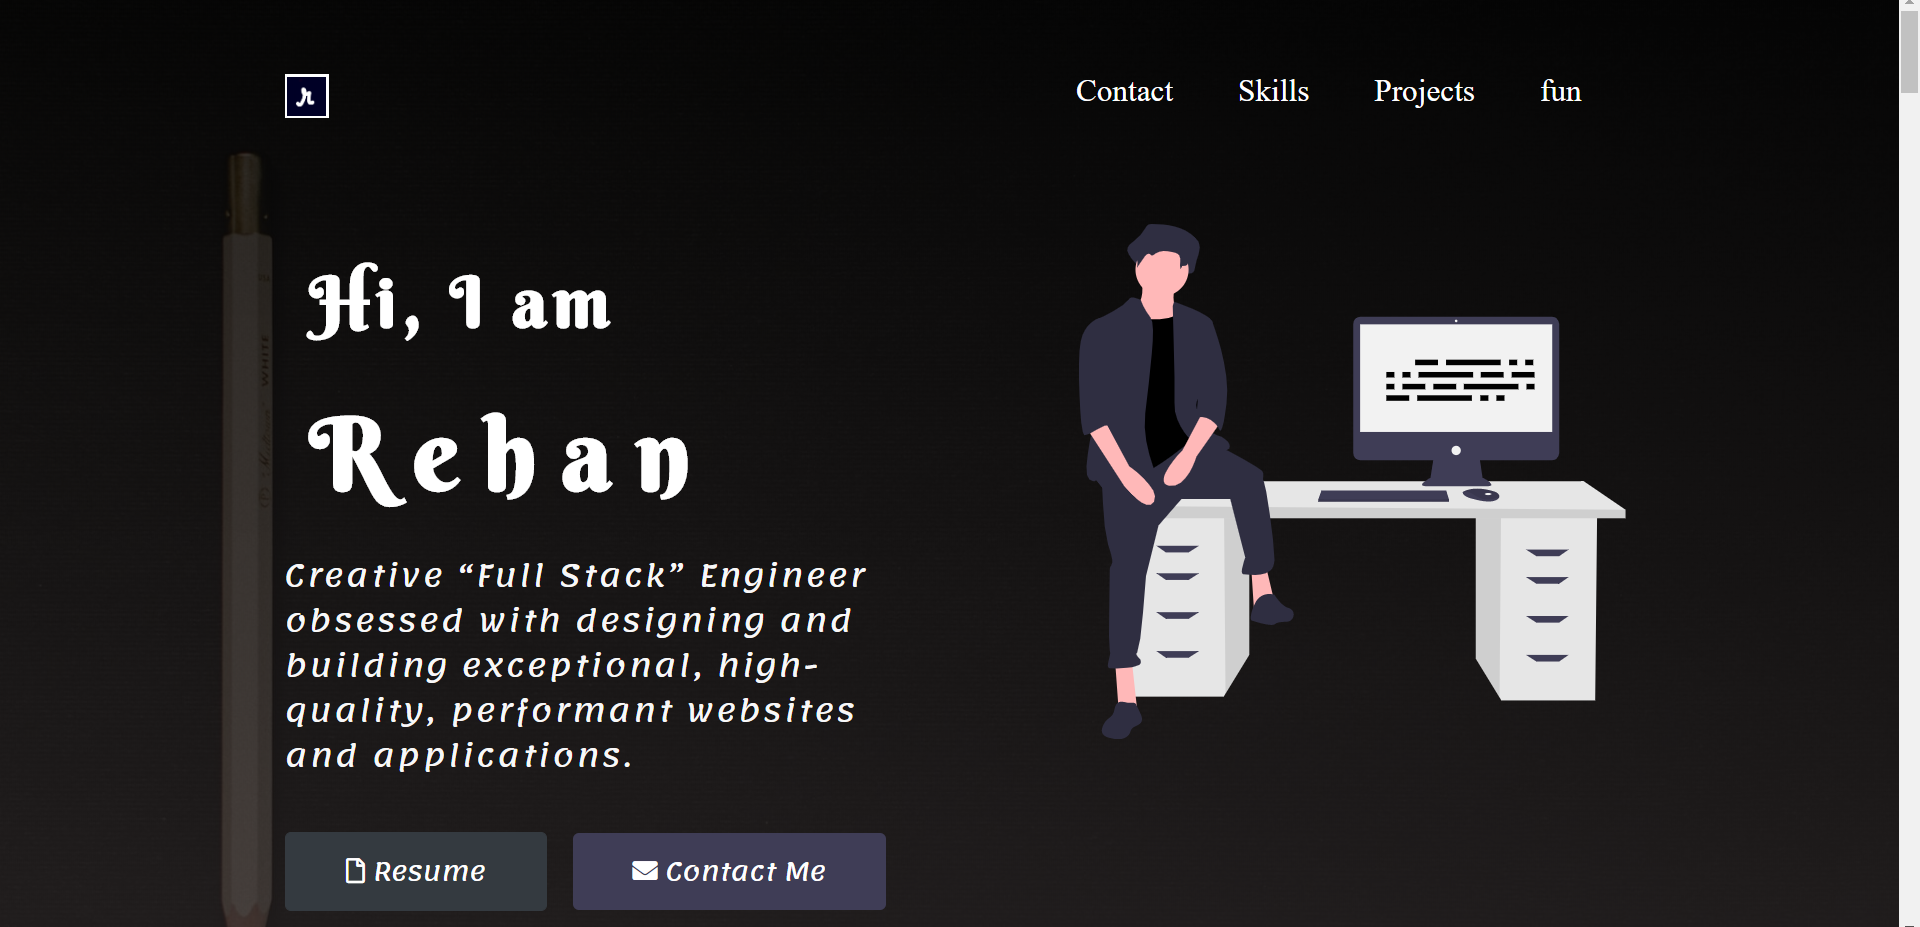
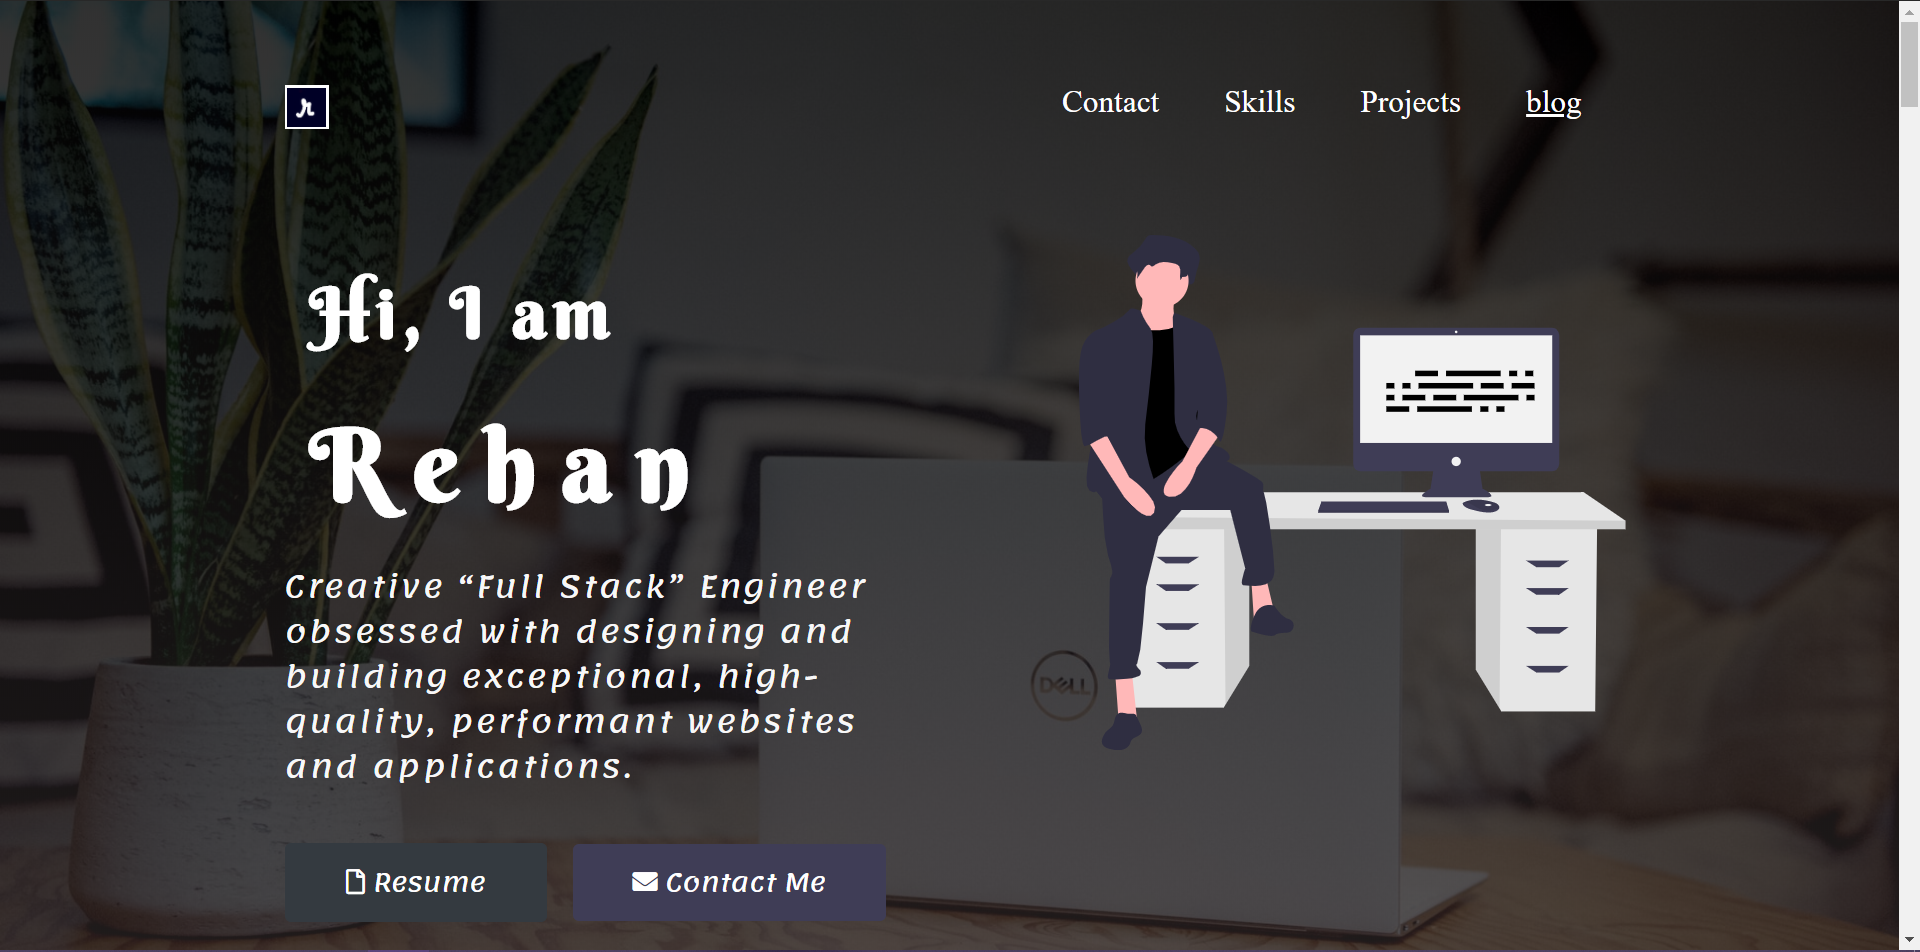
time pass

diff --git a/index.html b/index.html
@@ -59,16 +59,16 @@
           <ul class="navbar-nav ml-auto">
 
             <li class="nav-item">
-              <a class="nav-link" id = "nav-link-id" href="#cta">Contact</a>
+              <a class="nav-link text-big" id = "nav-link-id" href="#cta">Contact</a>
             </li>
             <li class="nav-item">
-              <a class="nav-link" id = "nav-link-id" href="#skills">Skills</a>
+              <a class="nav-link text-big" id = "nav-link-id" href="#skills">Skills</a>
             </li>
             <li class="nav-item">
-              <a class="nav-link" id = "nav-link-id" href="#projects">Projects</a>
+              <a class="nav-link text-big" id = "nav-link-id" href="#projects">Projects</a>
             </li>
             <li class="nav-item">
-              <a class="nav-link" id="nav-link-id" href="https://overgrownpanda.wordpress.com"><u>blog</u></a>
+              <a class="nav-link text-big" id="nav-link-id" href="https://overgrownpanda.wordpress.com"><u>blog</u></a>
             </li>
           </ul>
         </div>
@@ -251,7 +251,7 @@
             This is a major project I am working on currently. This is going to be a full stack web app, and this might take
             some time to completed.
           </p>
-          <a target="_blank" href="https://relativelyrehan.github.io/offend-you-version-2/index.html" class="btn btn-lg btn-dark download-button pad-btn">LIVE</a>
+          <a target="_blank" href="https://relativelyrehan.github.io/offend-you-version-2/index.html" class="btn btn-lg btn-dark download-button ">LIVE</a>
           <a target="_blank" href="https://github.com/relativelyrehan/offend-you-version-2" class="btn btn-lg btn-primary download-button primary-color-buttons">CODE</a>
         </div>
       </div>
@@ -261,30 +261,7 @@
 
 
   
-  <section class="fun" id="fun">
-    <h1 id="our-headings" >Books I Recommend</h1>
-    <div class="row">
-      <div class="col-lg-4 col-md-4 col-sm-4 our-padding"><img src="./images/sbl.jpg" class = "img-fluid hover-img " alt="books"></div>
-      <div class="col-lg-4 col-md-4 col-sm-4 our-padding"><img src="./images/mol.jpg" class = "img-fluid hover-img " alt="books"></div>
-      <div class="col-lg-4 col-md-4 col-sm-4 our-padding"><img src="./images/thg.jpg" class = "img-fluid hover-img " alt="books"></div>
-    </div>
-    <div class="row">
-      <div class="col-lg-4 col-md-4 col-sm-4 our-padding"><img src="./images/alc" class="img-fluid hover-img " alt="books"></div>
-      <div class="col-lg-4 col-md-4 col-sm-4 our-padding"><img src="./images/oft.jpg" class="img-fluid hover-img " alt="books"></div>
-      <div class="col-lg-4 col-md-4 col-sm-4 our-padding"><img src="./images/coc.jpg" class="img-fluid hover-img " alt="books"></div>
-    </div>
-    <div class="row">
-      <div class="col-lg-4 col-md-4 col-sm-4 our-padding"><img src="./images/ff.jpg" class="img-fluid hover-img " alt="books"></div>
-      <div class="col-lg-4 col-md-4 col-sm-4 our-padding"><img src="./images/thsg.jpg" class="img-fluid hover-img " alt="books"></div>
-      <div class="col-lg-4 col-md-4 col-sm-4 our-padding"><img src="./images/poh.jpg" class="img-fluid hover-img " alt="books"></div>
-    </div>
-    <div class="row">
-      <div class="col-lg-4 col-md-4 col-sm-4 our-padding"><img src="./images/ss.jpg" class="img-fluid hover-img" alt="books"></div>
-      <div class="col-lg-4 col-md-4 col-sm-4 our-padding"><img src="./images/wih.jpg" class="img-fluid hover-img" alt="books"></div>
-      <div class="col-lg-4 col-md-4 col-sm-4 our-padding"><img src="./images/lmv.jpg" class="img-fluid hover-img" alt="books"></div>
-    </div>
-    <h1 id="our-headings">.....................&nbsp;<i class="fa fa-book" aria-hidden="true"></i></i></h1>
-  </section>
+  
 
     <!-- Call to Action -->
     <section class="cta" id="cta">
@@ -300,7 +277,49 @@
           <button id="bottom-button" type="button" class="btn primary-color-buttons"
             onclick="location.href='mailto:rehan18alam@gmail.com';"><i class="fas fa-envelope"></i> Contact Me</button>
     </section>
+    <section class="fun" id="fun">
+      <h1 id="our-headings">Readers Section
+      </h1>
+      <!-- <div class="row">
+          <div class="col-lg-4 col-md-4 col-sm-4 our-padding"><img src="./images/sbl.jpg" class = "img-fluid hover-img " alt="books"></div>
+          <div class="col-lg-4 col-md-4 col-sm-4 our-padding"><img src="./images/mol.jpg" class = "img-fluid hover-img " alt="books"></div>
+          <div class="col-lg-4 col-md-4 col-sm-4 our-padding"><img src="./images/thg.jpg" class = "img-fluid hover-img " alt="books"></div>
+        </div> -->
+      <div class="row">
+        <div class="col-lg-12">
+          <a target="_blank" href="https://overgrownpanda.wordpress.com">
+            <img src="./images/blog.png" alt="myblog" class="img-fluid blog-hover d-flex justify-content-cente">
+          </a>
+        </div>
+      </div>
+      <div class="row">
+        <div class="col-lg-4 col-md-4 col-sm-4 our-padding"><img src="./images/alc" class="img-fluid hover-img "
+            alt="books"></div>
+        <div class="col-lg-4 col-md-4 col-sm-4 our-padding"><img src="./images/oft.jpg" class="img-fluid hover-img "
+            alt="books"></div>
+        <div class="col-lg-4 col-md-4 col-sm-4 our-padding"><img src="./images/coc.jpg" class="img-fluid hover-img "
+            alt="books"></div>
+      </div>
+      <div class="row">
+        <div class="col-lg-4 col-md-4 col-sm-4 our-padding"><img src="./images/ff.jpg" class="img-fluid hover-img "
+            alt="books"></div>
+        <div class="col-lg-4 col-md-4 col-sm-4 our-padding"><img src="./images/thsg.jpg" class="img-fluid hover-img "
+            alt="books"></div>
+        <div class="col-lg-4 col-md-4 col-sm-4 our-padding"><img src="./images/poh.jpg" class="img-fluid hover-img "
+            alt="books"></div>
+      </div>
+      <div class="row">
+        <div class="col-lg-4 col-md-4 col-sm-4 our-padding"><img src="./images/ss.jpg" class="img-fluid hover-img"
+            alt="books"></div>
+        <div class="col-lg-4 col-md-4 col-sm-4 our-padding"><img src="./images/wih.jpg" class="img-fluid hover-img"
+            alt="books"></div>
+        <div class="col-lg-4 col-md-4 col-sm-4 our-padding"><img src="./images/lmv.jpg" class="img-fluid hover-img"
+            alt="books"></div>
+      </div>
+      <h1 id="our-headings" class="text-center">..............................</i></i></h1>
+    </section>
   <footer id="contact">
+    <img src="./images/social.svg" class="img-fluid footer-svg" alt="">
     <a href="https://www.linkedin.com/in/relativelyrehan/" class="footer-icon"><i class="fab fa-linkedin""></i></a>
     <a href="https://www.facebook.com/relativelyrehan" class="footer-icon"><i class="fab fa-facebook"></i></a>
     <a href="https://github.com/relativelyrehan" class="footer-icon"><i class="fab fa-git"></i></a>

diff --git a/css/styles.css b/css/styles.css
@@ -17,10 +17,11 @@ body{
 }
 
 #title {
-    background:linear-gradient(rgba(0, 0, 0, 0.808), rgba(39, 34, 34, 0.788)), url(../images/book\ bg.jpg);
+    background:linear-gradient(rgba(0, 0, 0, 0.708), rgba(39, 34, 34, 0.788)), url(../images/book\ bg.jpg);
     color: #fff;
     background-size: cover;
-    background-position: left;
+    background-position: center;
+    background-attachment: fixed;
 
 
 }
@@ -116,8 +117,7 @@ p {
 
 #skills {
     padding: 7% 15%;
-    background-color: #eeeeee;
-    position: relative;
+    background-color: #fff;
 }
 
 .feature-box {
@@ -139,13 +139,19 @@ p {
 }
 
 .projects{
-    background-image: linear-gradient(rgba(0, 0, 0, 0.908), rgba(39, 34, 34, 0.888)),
-    url("../images/book\ bg.jpg");
+    background-image: linear-gradient(rgba(0, 0, 0, 0.508), rgba(39, 34, 34, 0.888)),
+    url("../images/bg-skills.jpg");
     padding: 5rem 7.5rem;
     background-size: cover;
     background-position: center;
     position: relative;
     background-attachment: fixed;
+}
+
+.footer-svg{
+    height: 250px;
+    display: block;
+    margin: 0 auto;
 }
 
 .project__container {
@@ -188,7 +194,11 @@ a{
 }
 
 .cta{
-    padding: 5rem 7.5rem;
+    padding: 6rem 7.5rem;
+}
+
+.text-big{
+    font-size: 20px;
 }
 
 .our-padding{
@@ -208,12 +218,28 @@ a{
     cursive;
 }
 
+#fun{
+    margin-top: -50px;
+}
+.blog-hover{
+    opacity: 1;
+    width: 90%;
+    padding: 20px;
+    margin-left: 25px;
+}
+
+.blog-hover:hover{
+    opacity: .9;
+    border: 10px solid #30475e;
+}
+
 .fun{
+    
     background-image: linear-gradient(rgba(0, 0, 0, 0.708), rgba(39, 34, 34, 0.688)),
-    url("../images/book\ bg.jpg");
+    url("../images/bg-read.jpg");
     padding: 5rem 7.5rem;
     background-size: cover;
-    background-position: left;
+    background-position: center;
     position: relative;
     background-attachment: fixed;
     margin: 3rem 0 ;
@@ -283,11 +309,6 @@ a{
 #contact {
     text-align: center;
     padding: 5rem;
-    background-image: linear-gradient(rgba(0, 0, 0, 0.908), rgba(39, 34, 34, 0.888)),
-
-    url("../images/book\ bg.jpg");
-    background-position: left;
-    background-size: cover;
     /* background-color: #2f2519; */
     font-size: 30px;
     margin-bottom: -20px;
@@ -325,8 +346,7 @@ a{
 }
 
 .footer-icon:hover {
-    color: #fff;
-    background-color: #000000;
+    color: #26262c;
 
 }
 
